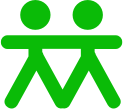
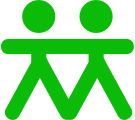
修改底部图标

diff --git a/widget/html/me/me_info/me_infoFrame - fuben2.html b/widget/html/me/me_info/me_infoFrame - fuben2.html
@@ -11,62 +11,115 @@
         body,html {
             background-color: #EDECF3;
         }
-        
-        ul.no1 {
-            background-color: #EDECF3;
-            width: 100%;
-            box-sizing: border-box;
+
+        .main ul {
+            margin-top: .2rem;
         }
-        ul.no1 li {
-            background-color: #fff;
-            padding-left: .3rem;
-            width: 100%;
-            box-sizing: border-box;
-            height: .797rem;
+        .main ul li {
+            height: .82rem;
+            line-height: .82rem;
+            padding: 0 .3rem 0 .3rem;
+            font-size: .28rem;
+            
+            background: #fff;
+            
+            position: relative;
+            
         }
-        .mb30 {
-            margin-bottom: .3rem;
+        .main ul li:nth-child(6),
+        .main ul li:nth-child(9),
+        .main ul li:nth-child(12)
+         {
+            margin-bottom: .2rem;
         }
-        .wrap1 {
-            border-bottom: 1px solid #EDEDED;
-            padding-left: .05rem;
-             width: 100%;
-             height: .797rem;
-             line-height: .797rem;
-            box-sizing: border-box;
-        }
-        ul.no1 li.liNo1 {
-            height: 1.42rem;
-            border-bottom: 1px solid #000;
-           font-size: 0;
-        }
-        .liNo1 .wrap {
-            height: 1.42rem;
-             display: -webkit-box; 
+        .main ul li:nth-child(1) {
+           position: relative;
+            height: 1.6rem;
+            background: #fff;
+            line-height: 1.6rem;
+            display: -webkit-box; 
             display: flex; 
             -webkit-box-align:  center;
             align-items: center;
         }
-        .label {
-            font-size: .3rem;
+
+        .main ul li:nth-child(1) img {
+            width: 1.07rem;
+            height: 1.07rem;
+            vertical-align:middle;
+            border-radius: .08rem;
         }
-        .liNo1 .imgDiv img {
-            width: 1.078rem;
-            height: 1.078rem;
-            border-radius: .08rem
+        .imgDiv {
+             display: -webkit-box; 
+            display: flex; 
+            -webkit-box-align:  center;
+            align-items: center;
+            height: 1.6rem;
+            position: absolute; 
+            right: .9rem;   
+            top: 0;
+            width: 1.07rem;
+
         }
-        .wrap1 span:last-child {
-            background: url(../../../image/icon_zk.png)no-repeat;
-            float: right;
+      
+       
+        .uaseName {
+            display: inline-block;
+            vertical-align:middle;
         }
+        .main ul li span:first-child {
+            position: relative;
+        }
+        .main ul li span:last-child {
+            display: inline-block;
+            width: .15rem;
+            height: .8rem;
+            background: url(../../../image/icon_member/icon_zk.png)no-repeat;
+            -webkit-background-size: .15rem .25rem;
+            background-size: .15rem .25rem;
+            background-position: 0 .3rem;
+            float: right;   
+        }
+        .main ul li span.zkicon{
+            display: inline-block;
+            height: 1.6rem;
+            width: .15rem;
+            position: absolute;
+            right: .58rem;
+            top: 0;
+            background-position: center center;
+        }
+        
+       
+        li .text {
+            position: absolute; 
+            top: 0;
+            right: 0.9rem;
+            color: #B6AEA9;
+        }
+        li input {
+            height: .8rem;
+            text-align: right;
+            outline: none;
+            width: 2rem;
+        }
+        li input::-webkit-input-placeholder {
+            text-align: right;
+        }
+        .wrap {
+            /*border-bottom: 1px solid #EDEDED;*/
+            border-bottom: 1px solid #f00;
+            width: 100%;
+        }
+
     </style>
 </head>
 <body>
     <div class="main">
-        <ul class="no1">
-            <li onclick="login(this)" data-val="tx" class="mb30 liNo1">
+        <ul>
+            <li onclick="login(this)" data-val="tx">
                 <div class="wrap clearfix">
-                    <span class="label">头像</span>
+                    头像
                     <div class="imgDiv">
                         <img class="headImg fr"  src="../../../image/tx_2.jpg">
                     </div>
@@ -74,87 +127,63 @@
                 </div>
             </li>
             <li onclick="openF(this)"  data-val="name">
-               <div class="wrap1">
-                    <span class="label">真实姓名</span>
-                    <span class="text name">必填</span>
-                    <span></span>
-               </div>
+                <span>真实姓名</span>
+                <span class="text name">必填</span>
+                <span></span>
             </li>
             <li onclick="openF(this)"  data-val="nicheng">
-                <div class="wrap1">
-                    <span class="label">昵称</span>
-                    <span class="text nicheng">必填</span>
-                    <span></span>
-                </div>
+                <span>昵称</span>
+                <span class="text nicheng">必填</span>
+                <span></span>
             </li>
             <li onclick="openF(this)"  data-val="sex">
-                <div class="wrap1">
-                    <span class="label">性别</span>
-                    <span class="text sex">请选择</span>
-                    <span></span>
-                </div>
+                <span>性别</span>
+                <span class="text sex">请选择</span>
+                <span></span>
             </li>
             <li onclick="openF(this)" data-val="jx">
-                <div class="wrap1">
-                    <span class="label">家乡</span>
-                    <span class="text jx">请选择</span>
-                    <span></span>
-                </div>
+                <span>家乡</span>
+                <span class="text jx">请选择</span>
+                <span></span>
             </li>
             <li onclick="openF(this)" data-val="sr">
-                <div class="wrap1">
-                    <span class="label">生日</span>
-                    <span class="text sr">请选择</span>
-                    <span class="fr"></span>
-                </div>
+                <span >生日</span>
+                <span class="text sr">请选择</span>
+                <span class="fr"></span>
             </li>
             <li onclick="login(this)" data-val="zydh">
-                <div class="wrap1">
-                    <span class="label">主要电话</span>
-                    <span></span>
-                </div>
+                <span>主要电话</span>
+                <span></span>
             </li>
  
             <li onclick="login(this)" data-val="qtlxfs">
-                <div class="wrap1">
-                    <span class="label">联系方式</span>
-                    <span></span>
-                </div>
+                <span>联系方式</span>
+                <span></span>
             </li>
  
             <li onclick="login(this)" data-val="zz">
-                <div class="wrap1">
-                    <span class="label">住址</span>
-                    <span></span>
-                </div>
+                <span>住址</span>
+                <span></span>
             </li>
  
             <li onclick="login(this)" data-val="study">
-                <div class="wrap1">
-                    <span class="label">学习经历</span>
-                    <span></span>
-                </div>
+                <span>学习经历</span>
+                <span></span>
             </li>
  
             <li onclick="login(this)" data-val="workExper">
-                <div class="wrap1">
-                    <span class="label">工作经历</span>
-                    <span></span>
-                </div>
+                <span>工作经历</span>
+                <span></span>
             </li>
  
             <li onclick="login(this)" data-val="project">
-                <div class="wrap1">
-                    <span class="label">项目业绩</span>
-                    <span></span>
-                </div>
+                <span>项目业绩</span>
+                <span></span>
             </li>
  
             <li onclick="login(this)" data-val="mqdt">
-                <div class="wrap1">
-                    <span class="label">主要工作动态</span>
-                    <span></span>
-                </div>
+                <span>主要工作动态</span>
+                <span></span>
             </li>
  
         </ul>

diff --git a/widget/html/frame4.html b/widget/html/frame4.html
@@ -58,7 +58,7 @@
             border-bottom: .6px solid #D9D9D9;
             /*margin-top: .01rem;*/
             padding-bottom: .02rem;
-            padding-right: .3rem;
+            padding-right: .36rem;
             /*padding-left: .rem;*/
 
         }
@@ -66,7 +66,7 @@
         ul li:not(.userInfo) span {
             position: relative; 
         }
-        ul li:not(.userInfo) span.select:before {
+       /* ul li:not(.userInfo) span.select:before {
              content: "";
             display: inline-block;
             width: .16rem;
@@ -75,8 +75,8 @@
             border-radius: .2rem;
             position: absolute;
             top: .17rem;
-            right: -.05rem;
-        }
+            right: -.09rem;
+        }*/
         ul li:not(.userInfo) span:first-child {
             margin-left: .83rem;         
         }
@@ -146,7 +146,7 @@
             height: 1.58rem;  
             float: right;
             position: absolute;      
-            right: .3rem;        
+            right: .36rem;        
         }
         ul li span:last-child {
             width: .15rem;  
@@ -169,13 +169,13 @@
         }
         .uaseName .userNameText {
             font-size: .34rem;
-            line-height: .48rem;
+            line-height: .4rem;
         }
         .uaseName .personalInfo {
             font-size: .24rem;
             color: #333;
 
-            margin-top: .15rem;  
+            margin-top: .09rem;  
             letter-spacing: -.025rem;
             line-height: .33rem;    
         }

diff --git a/widget/html/main.html b/widget/html/main.html
@@ -83,7 +83,7 @@
             bottom: 0;
             width: 7.5rem;      
             border-top: .6px solid #9D9DA1;
-            height: .9rem;      
+            height: .88rem;      
         }       
         #footer ul {
             /*background-color: rgba(242,242,242,0.2);          */
@@ -151,8 +151,8 @@
             background-color: #f00;
             border-radius: .2rem;
             position: absolute;
-            top: .1rem;
-            right: .4rem;
+            top: .12rem;
+            right: .44rem;
         }
         .show {
             display: block;
